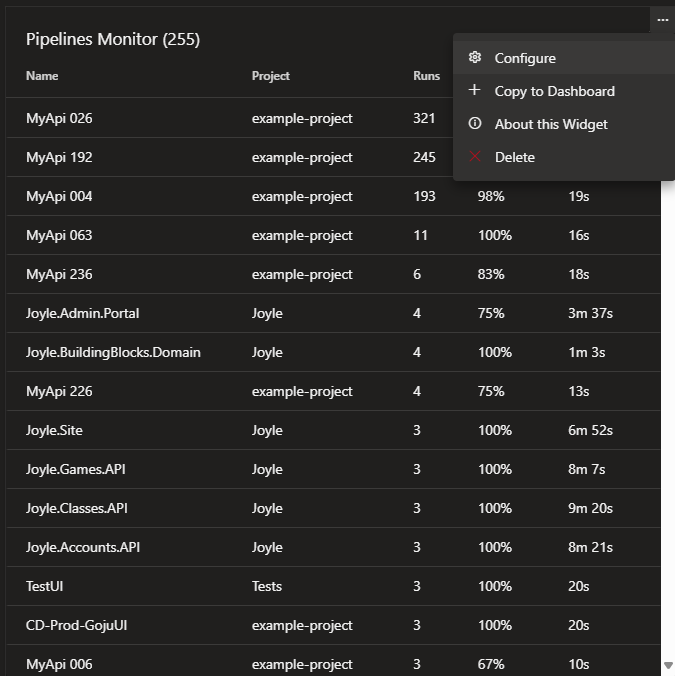
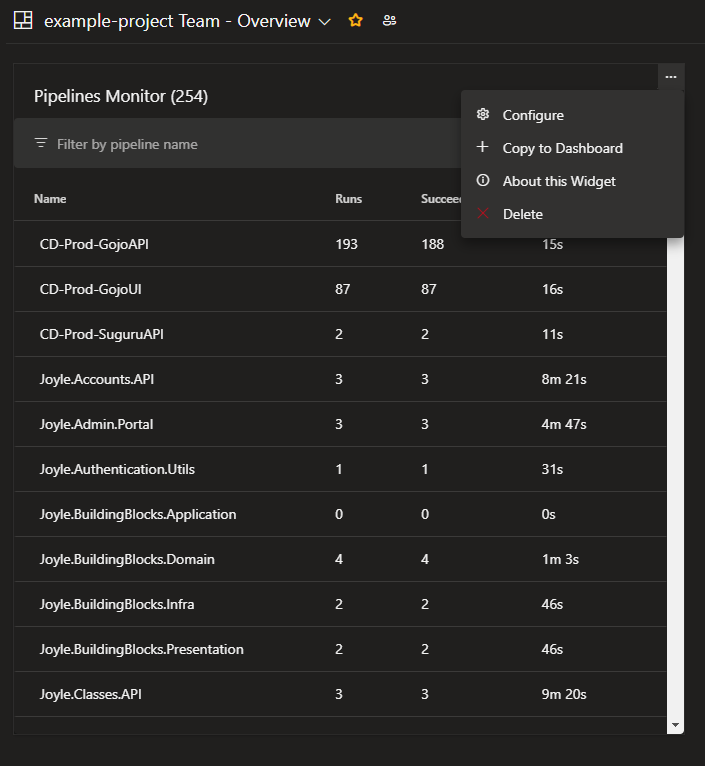
Filter by pipeline name

diff --git a/src/components/PipelinesWidget/PipelinesWidget.tsx b/src/components/PipelinesWidget/PipelinesWidget.tsx
@@ -12,6 +12,10 @@ import { getPipelineOverview } from "../../services/pipelines";
 import { IPipelineWidgetSettings } from "../PipelinesWidgetConfig/IPipelineWidgetSettings";
 import { PipelineOverview } from "../../models/pipeline-overview";
 import { Link } from "azure-devops-ui/Link";
+import { FilterBar } from "azure-devops-ui/FilterBar";
+import { Filter, FILTER_CHANGE_EVENT, IFilterState } from "azure-devops-ui/Utilities/Filter";
+import { KeywordFilterBarItem } from "azure-devops-ui/TextFilterBarItem";
+
 
 interface IPipelinesWidgetState {
   title: string;
@@ -40,16 +44,71 @@ export interface IPipelineTableItem extends ISimpleTableCell {
   avgDuration: number;
 }
 
+interface FilterValue extends IFilterState {
+  searchTerm: {
+    value: string;
+  };
+}
+
 class PipelinesWidget
   extends React.Component<{}, IPipelinesWidgetState>
   implements Dashboard.IConfigurableWidget {
+  private filter: Filter;
+  private allTableItems: IPipelineTableItem[] = [];
+  private filteredTableItems: IPipelineTableItem[] = [];
+  private itemProvider = new ObservableValue<ArrayItemProvider<IPipelineTableItem>>(
+    new ArrayItemProvider([])
+  );
+  private columns: ITableColumn<IPipelineTableItem>[] = [];
+  private sortFunctions: ((item1: IPipelineTableItem, item2: IPipelineTableItem) => number)[] = [];
+  private sortingBehavior = this.updateSortingBehavior();
+
+  constructor(props: {}) {
+    super(props);
+
+    this.filter = new Filter();
+    this.filter.subscribe(() => {
+      this.applyFilter();
+    }, FILTER_CHANGE_EVENT);
+  }
+
   componentDidMount(): void {
     SDK.init().then(() => {
       SDK.register("pipelines-widget", this);
     });
   }
 
+  applyFilter() {
+    const filterValue = this.filter.getState() as FilterValue;
+    if (filterValue?.searchTerm === undefined) {
+      this.filteredTableItems = this.allTableItems;
+    }
+    else {
+      this.filteredTableItems = this.allTableItems.filter(item => item.name.toLowerCase().includes(filterValue.searchTerm.value.toLowerCase()));
+    }
+
+    this.itemProvider.value = new ArrayItemProvider(this.filteredTableItems);
+    this.sortingBehavior = this.updateSortingBehavior();
+  }
+
+  updateSortingBehavior(): ColumnSorting<IPipelineTableItem> {
+    return new ColumnSorting<IPipelineTableItem>(
+      (columnIndex: number, proposedSortOrder: SortOrder) => {
+        this.itemProvider.value = new ArrayItemProvider(
+          sortItems(
+            columnIndex,
+            proposedSortOrder,
+            this.sortFunctions,
+            this.columns,
+            this.filteredTableItems
+          )
+        );
+      }
+    );
+  }
+
   render(): JSX.Element {
+
 
     if (!this.state) {
       return <div></div>;
@@ -61,7 +120,7 @@ class PipelinesWidget
 
     const { title, showProjectName, showAsPercentage, pipelines, showRuns, showSucceeded, showFailed, showAverage, showCanceled } = this.state;
 
-    const tableItems = pipelines.map(({ pipeline: { name, url }, projectName, stats: { runs, succeeded, failed, canceled, avgDuration } }) => {
+    this.allTableItems = pipelines.map(({ pipeline: { name, url }, projectName, stats: { runs, succeeded, failed, canceled, avgDuration } }) => {
       return {
         name,
         url,
@@ -74,8 +133,10 @@ class PipelinesWidget
       }
     });
 
-    const itemProvider = new ObservableValue<ArrayItemProvider<IPipelineTableItem>>(
-      new ArrayItemProvider(tableItems)
+    this.filteredTableItems = this.allTableItems;
+
+    this.itemProvider = new ObservableValue<ArrayItemProvider<IPipelineTableItem>>(
+      new ArrayItemProvider(this.filteredTableItems)
     );
 
     const renderNumericColumn = (
@@ -181,76 +242,70 @@ class PipelinesWidget
       };
     }
 
-    let columns: ITableColumn<IPipelineTableItem>[] = [
-      addPipelineTableColumn("name", "Name", -35, renderPipelineNameCell, { ariaLabelAscending: "Sorted A to Z", ariaLabelDescending: "Sorted Z to A", }),
-    ];
+    this.columns = [];
+    this.sortFunctions = [];
 
-    let sortFunctions = [
-      (item1: IPipelineTableItem, item2: IPipelineTableItem): number => item1.name.localeCompare(item2.name),
-    ];
+    this.columns.push(addPipelineTableColumn("name", "Name", -35, renderPipelineNameCell, { ariaLabelAscending: "Sorted A to Z", ariaLabelDescending: "Sorted Z to A", }));
+    this.sortFunctions.push((item1: IPipelineTableItem, item2: IPipelineTableItem): number => item1.name.localeCompare(item2.name));
 
     if (showProjectName) {
-      columns.push(addPipelineTableColumn("projectName", "Project", -25, renderSimpleCell, { ariaLabelAscending: "Sorted A to Z", ariaLabelDescending: "Sorted Z to A", }));
-      sortFunctions.push((item1: IPipelineTableItem, item2: IPipelineTableItem): number => item1.projectName.localeCompare(item2.projectName));
+      this.columns.push(addPipelineTableColumn("projectName", "Project", -25, renderSimpleCell, { ariaLabelAscending: "Sorted A to Z", ariaLabelDescending: "Sorted Z to A", }));
+      this.sortFunctions.push((item1: IPipelineTableItem, item2: IPipelineTableItem): number => item1.projectName.localeCompare(item2.projectName));
     }
 
     if (showRuns) {
-      columns.push(addPipelineTableColumn("runs", "Runs", -10, renderSimpleCell));
-      sortFunctions.push((item1: IPipelineTableItem, item2: IPipelineTableItem): number => item1.runs - item2.runs);
+      this.columns.push(addPipelineTableColumn("runs", "Runs", -10, renderSimpleCell));
+      this.sortFunctions.push((item1: IPipelineTableItem, item2: IPipelineTableItem): number => item1.runs - item2.runs);
     }
 
     if (showSucceeded) {
-      columns.push(addPipelineTableColumn("succeeded", "Succeeded", -14));
-      sortFunctions.push((item1: IPipelineTableItem, item2: IPipelineTableItem): number => item1.succeeded - item2.succeeded);
+      this.columns.push(addPipelineTableColumn("succeeded", "Succeeded", -14));
+      this.sortFunctions.push((item1: IPipelineTableItem, item2: IPipelineTableItem): number => item1.succeeded - item2.succeeded);
     }
 
     if (showFailed) {
-      columns.push(addPipelineTableColumn("failed", "Failed"));
-      sortFunctions.push((item1: IPipelineTableItem, item2: IPipelineTableItem): number => item1.failed - item2.failed);
+      this.columns.push(addPipelineTableColumn("failed", "Failed"));
+      this.sortFunctions.push((item1: IPipelineTableItem, item2: IPipelineTableItem): number => item1.failed - item2.failed);
     }
 
     if (showCanceled) {
-      columns.push(addPipelineTableColumn("canceled", "Canceled"));
-      sortFunctions.push((item1: IPipelineTableItem, item2: IPipelineTableItem): number => item1.canceled - item2.canceled);
+      this.columns.push(addPipelineTableColumn("canceled", "Canceled"));
+      this.sortFunctions.push((item1: IPipelineTableItem, item2: IPipelineTableItem): number => item1.canceled - item2.canceled);
     }
 
     if (showAverage) {
-      columns.push(addPipelineTableColumn("avgDuration", "Avg Duration", -15, renderAverageColumn));
-      sortFunctions.push((item1: IPipelineTableItem, item2: IPipelineTableItem): number => item1.avgDuration - item2.avgDuration);
+      this.columns.push(addPipelineTableColumn("avgDuration", "Avg Duration", -15, renderAverageColumn));
+      this.sortFunctions.push((item1: IPipelineTableItem, item2: IPipelineTableItem): number => item1.avgDuration - item2.avgDuration);
     }
-
-    const sortingBehavior = new ColumnSorting<IPipelineTableItem>(
-      (columnIndex: number, proposedSortOrder: SortOrder) => {
-        itemProvider.value = new ArrayItemProvider(
-          sortItems(
-            columnIndex,
-            proposedSortOrder,
-            sortFunctions,
-            columns,
-            tableItems
-          )
-        );
-      }
-    );
 
     const renderedTitle = `${title} (${pipelines.length ?? 0})`;
 
     return (
       <Card className="flex-grow bolt-table-card" titleProps={{ text: renderedTitle, ariaLevel: 3 }}>
-        <Observer itemProvider={itemProvider}>
-          {(observableProps: { itemProvider: ArrayItemProvider<IPipelineTableItem> }) => (
-            <Table<IPipelineTableItem>
-              ariaLabel="Pipelines Table"
-              columns={columns}
-              behaviors={[sortingBehavior]}
-              itemProvider={observableProps.itemProvider}
-              scrollable={true}
-              role="table"
-              pageSize={100}
-              containerClassName="h-scroll-auto"
-            />
-          )}
-        </Observer>
+        <div className="flex-grow">
+          <div className="flex-grow">
+            <FilterBar filter={this.filter}>
+              <KeywordFilterBarItem filterItemKey="searchTerm" placeholder="Filter by pipeline name" />
+            </FilterBar>
+          </div>
+          <div className="flex-grow">
+
+            <Observer itemProvider={this.itemProvider}>
+              {(observableProps: { itemProvider: ArrayItemProvider<IPipelineTableItem> }) => (
+                <Table<IPipelineTableItem>
+                  ariaLabel="Pipelines Table"
+                  columns={this.columns}
+                  behaviors={[this.sortingBehavior]}
+                  itemProvider={observableProps.itemProvider}
+                  scrollable={true}
+                  role="table"
+                  pageSize={100}
+                  containerClassName="h-scroll-auto"
+                />
+              )}
+            </Observer>
+          </div>
+        </div>
       </Card>
     );
   }
